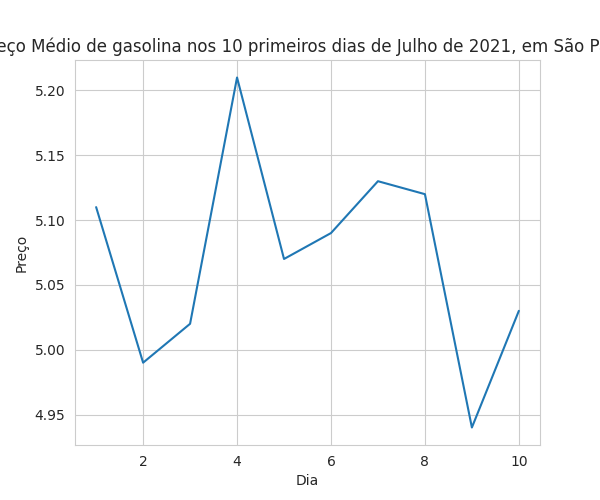
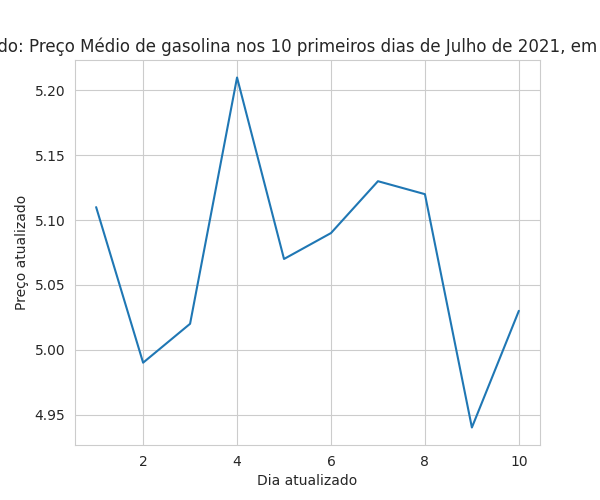
Adicionando arquivos gerados

Changed region(s): [[0.0, 0.06, 1.0, 0.12], [0.42, 0.93, 0.6, 0.99], [0.03, 0.39, 0.06, 0.63]]

diff --git a/gasolina.py b/gasolina.py
@@ -1,5 +1,5 @@
 
-
+# código de geração do gráfico
 import csv
 import pandas as pd
 import seaborn as sns
@@ -7,9 +7,11 @@ import matplotlib.pyplot as plt
 
 with sns.axes_style('whitegrid'):
   plt.figure(figsize=(6, 5))
-  gasolina_df = pd.read_csv('./gasolina.csv')
-  sns.lineplot(data=gasolina_df, x='dia', y='venda') # Use the DataFrame 'gasolina_df'
-  plt.title('Preço Médio de gasolina nos 10 primeiros dias de Julho de 2021, em São Paulo') # Set title on plt object
-  plt.xlabel('Dia') # Set xlabel on plt object
-  plt.ylabel('Preço') # Set ylabel on plt object
+  gasolina_df = pd.read_csv('./gasolina.csv') #criando df
+  sns.lineplot(data=gasolina_df, x='dia', y='venda') #DataFrame 'gasolina_df'
+  plt.title('Atualizado: Preço Médio de gasolina nos 10 primeiros dias de Julho de 2021, em São Paulo') # Set title on plt object
+  plt.xlabel('Dia atualizado') #entitulando
+  plt.ylabel('Preço atualizado') #entitulando
   plt.savefig('gasolina.png')
+  plt.show()
+  
